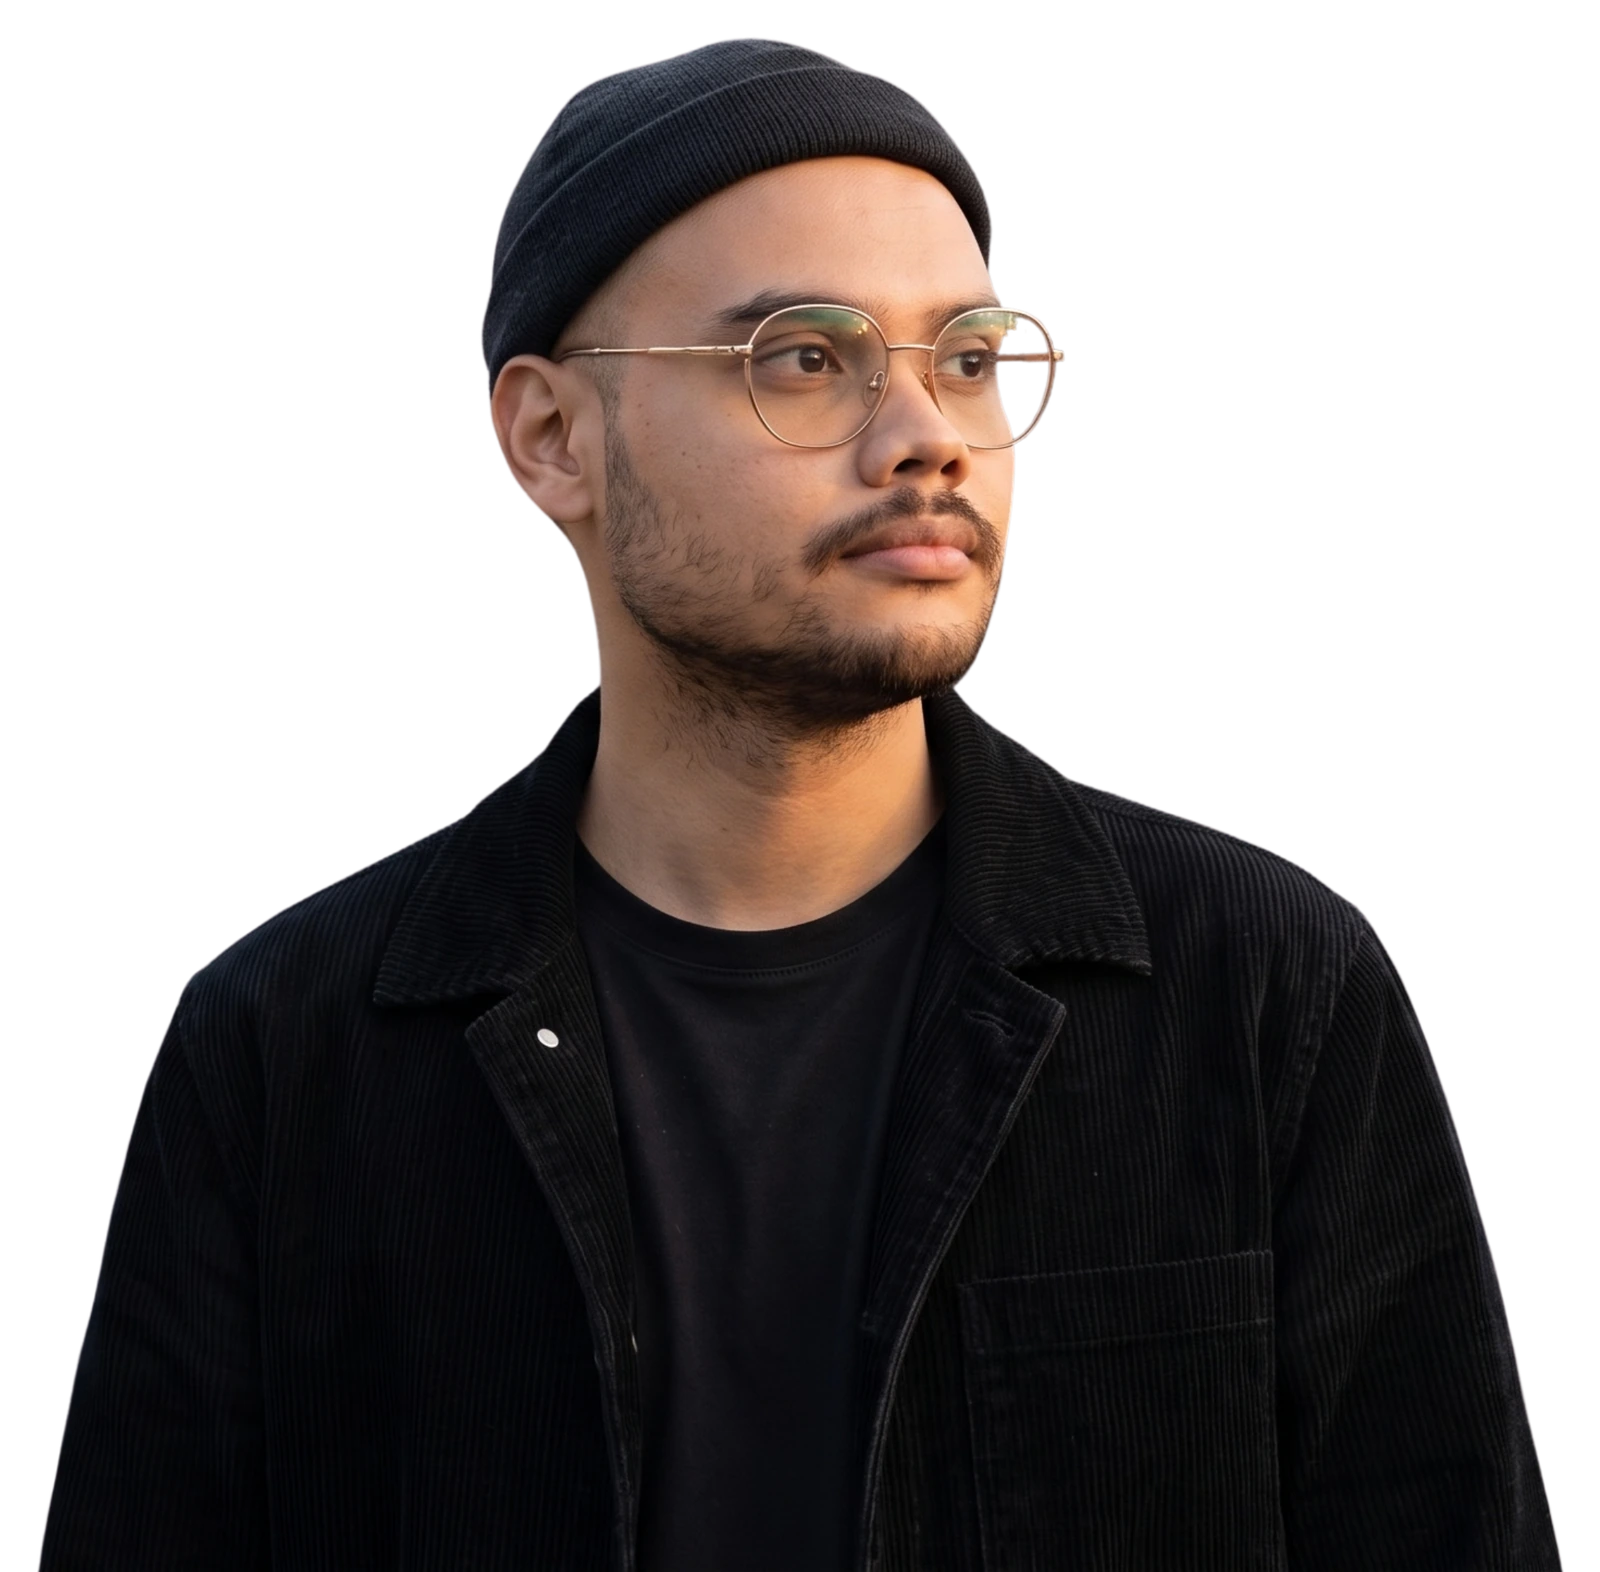
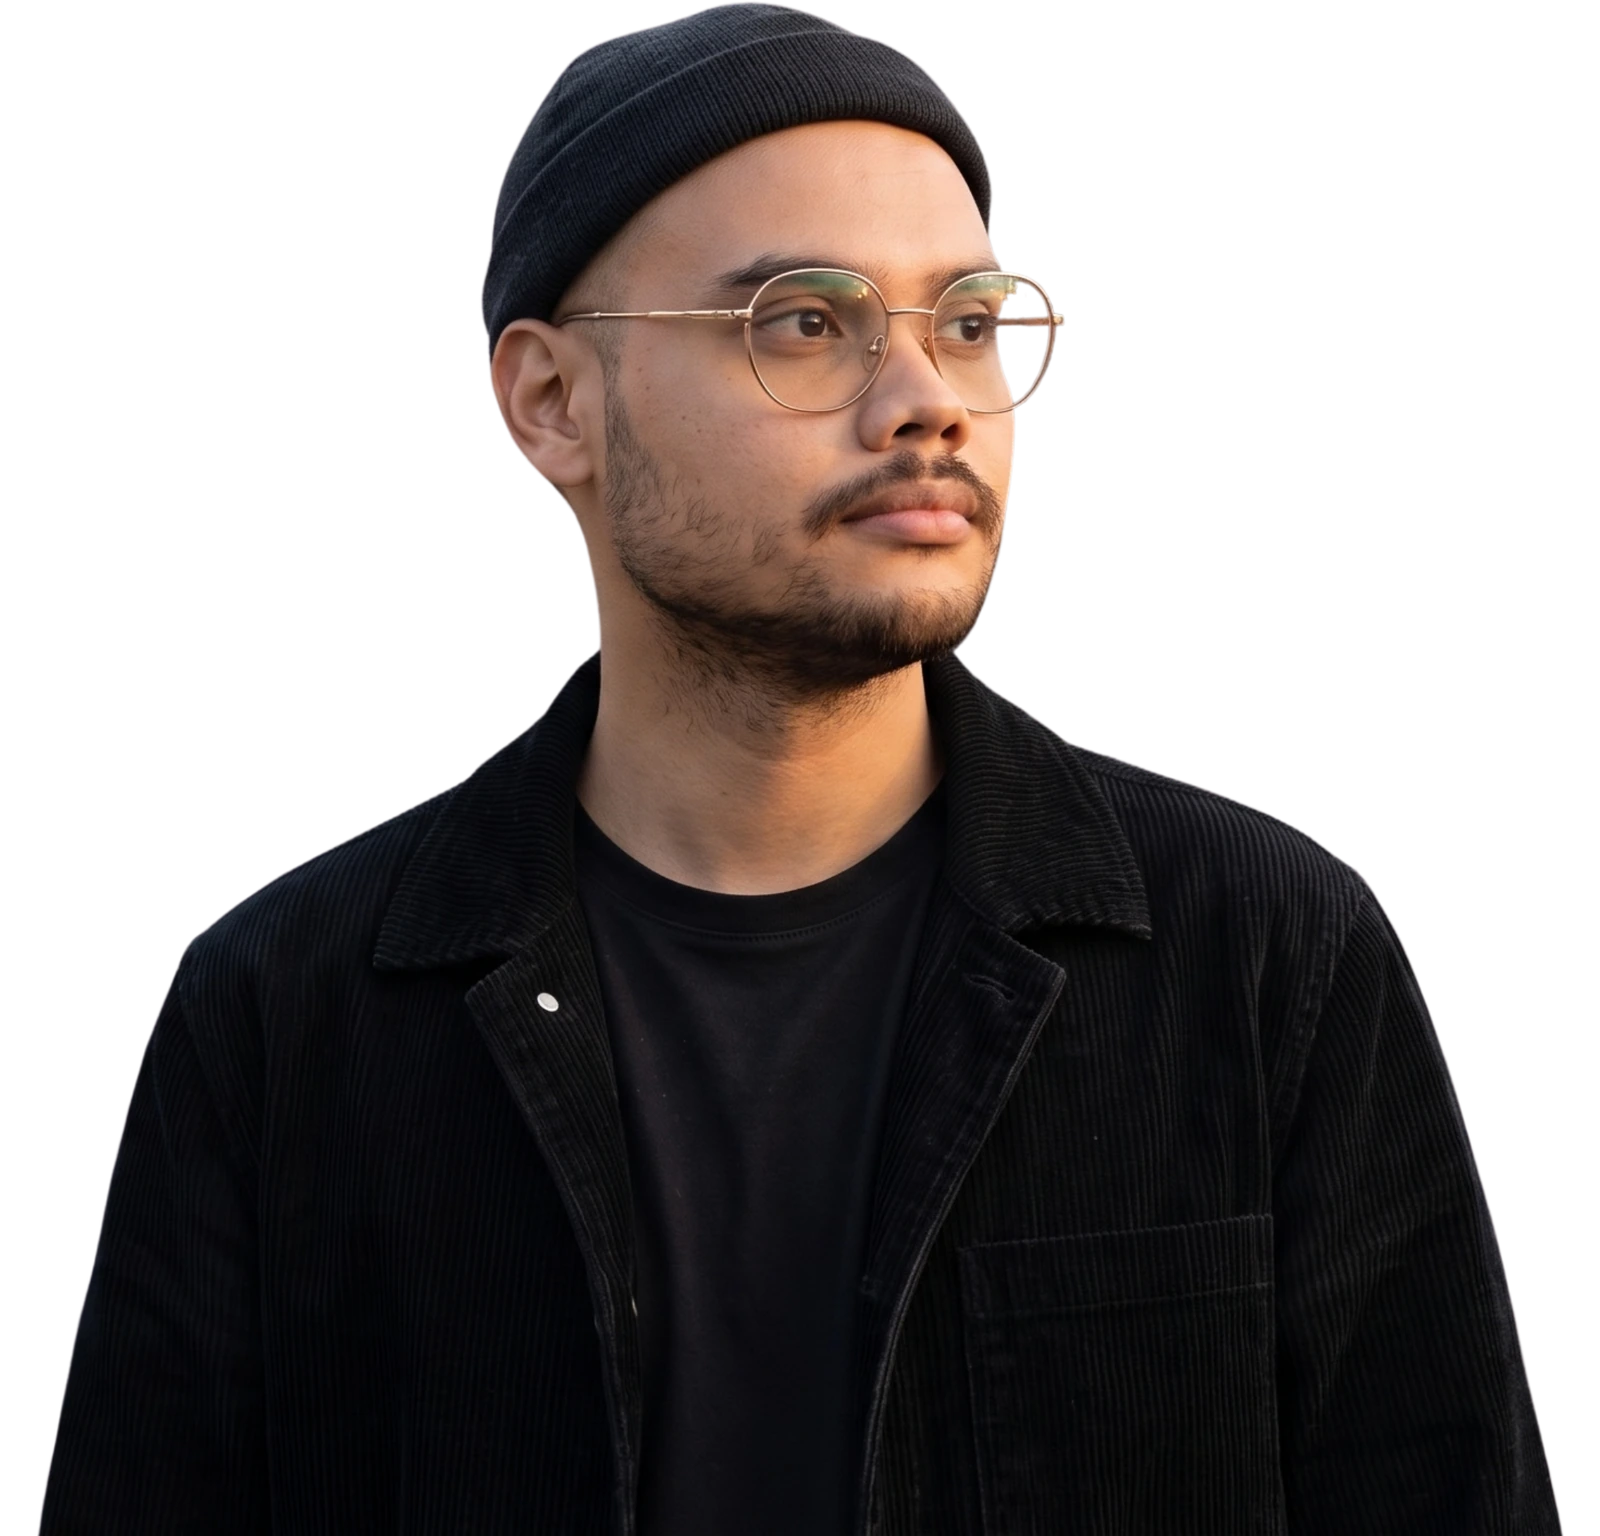
feat(hero): refine masthead and portrait stacking

diff --git a/src/features/home/Hero.tsx b/src/features/home/Hero.tsx
@@ -1,6 +1,7 @@
 import '@fontsource/bebas-neue/latin-400.css'
 
 import { ArrowRight, Download } from 'lucide-react'
+import type { CSSProperties } from 'react'
 
 import { Container } from '@/components/layout/Container'
 import { siteConfig } from '@/data/site'
@@ -8,33 +9,50 @@ import { siteConfig } from '@/data/site'
 /**
  * Masthead class — giant "PORTAFOLIO" that stays single-line at 1440 px.
  * Bebas Neue 400, clamp(5rem,17vw,17rem), uppercase, tight line-height
- * and tracking.  No scaleY transform.
+ * and tracking. The inner text is scaled vertically while this heading
+ * reserves the transformed height in layout.
  */
 const portfolioTitleClass =
   'whitespace-nowrap font-["Bebas_Neue"] text-[clamp(5rem,17vw,17rem)] font-normal uppercase leading-[0.85] tracking-[-0.01em] text-ink'
+
+const heroMetrics = {
+  '--header-h': '80px',
+  '--title-stretch': '1.5',
+  '--title-natural-h': 'calc(clamp(5rem, 17vw, 17rem) * 0.85)',
+  '--title-h': 'calc(var(--title-natural-h) * var(--title-stretch))',
+  '--photo-w': 'clamp(360px, 55vw, 560px)',
+  '--photo-h': 'calc(var(--photo-w) * 1536 / 1600)',
+  '--hero-natural-h':
+    'max(640px, calc(24px + var(--title-h) + var(--photo-h) - var(--overlap)))',
+  '--hero-extra':
+    'max(0px, calc(100svh - var(--header-h) - var(--hero-natural-h)))',
+  '--tablet-photo-w': 'clamp(360px, 51vw, 480px)',
+  '--tablet-photo-h': 'calc(var(--tablet-photo-w) * 1536 / 1600)',
+  '--overlap': 'clamp(40px, calc(var(--title-natural-h) * 0.25), 56px)',
+  '--mobile-photo-h': 'calc(min(90vw, 380px) * 1536 / 1600)',
+} as CSSProperties
 
 export function Hero() {
   return (
     <section
       id="inicio"
       aria-label="Inicio"
-      className="relative isolate overflow-hidden bg-background"
+      style={heroMetrics}
+      className="relative isolate mt-[var(--header-h)] overflow-hidden bg-background [@media(min-width:1024px)_and_(min-height:800px)_and_(orientation:landscape)]:pt-[min(var(--hero-extra),20vh)]"
     >
-      <Container className="relative flex flex-col pt-[104px] pb-10 sm:pb-12 lg:min-h-[100svh] lg:pb-0">
+      <Container className="relative grid grid-rows-[auto_minmax(max-content,1fr)] pt-6 min-h-[max(700px,calc(100svh_-_var(--header-h)))] sm:min-h-[calc(24px_+_var(--title-h)_+_var(--tablet-photo-h)_-_var(--overlap))] lg:min-h-[max(640px,calc(24px_+_var(--title-h)_+_var(--photo-h)_-_var(--overlap)))] [@media(max-height:500px)_and_(max-width:900px)]:min-h-[max(700px,calc(100svh_-_var(--header-h)))]">
         {/* Masthead — Bebas Neue 400, z-10 above circle (z-0) */}
         <h1
-          className={`${portfolioTitleClass} relative z-10 origin-left scale-x-[1.05] sm:scale-x-[1.25] lg:scale-x-[1.3]`}
+          className={`${portfolioTitleClass} h-[var(--title-h)] relative z-10 origin-left scale-x-[1.05] sm:scale-x-[1.25] lg:scale-x-[1.3]`}
         >
-          Portafolio
+          <span className="block origin-top [transform:scaleY(var(--title-stretch))]">
+            Portafolio
+          </span>
         </h1>
 
-        {/* Two-column grid: copy left, portrait right (stacks on mobile)
-            — portrait anchored to section bottom on desktop for full overlap
-            — circle backdrop now z-0 so H1 (z-10) renders above it */}
-        <div className="relative -mt-2 grid flex-1 items-end gap-6 sm:mt-0 lg:-mt-16 lg:grid-cols-[0.85fr_1.15fr] lg:gap-0">
-
-          {/* ── Copy column — left ─────────────────────────────────── */}
-          <div className="relative z-30 py-6 font-heading lg:self-start lg:py-0 lg:pt-14">
+        {/* Content row — grid intrinsic sizing lets the hero grow if copy needs space. */}
+        <div className="relative z-30 grid min-h-0 grid-cols-1 items-center pb-[calc(var(--mobile-photo-h)_+_24px)] sm:grid-cols-[42%_58%] sm:pb-0 md:grid-cols-[50%_50%] lg:grid-cols-[40%_60%] [@media(max-height:500px)_and_(max-width:900px)]:grid-cols-1 [@media(max-height:500px)_and_(max-width:900px)]:pb-[calc(var(--mobile-photo-h)_+_24px)]">
+          <div className="relative z-30 min-w-0 py-6 font-heading">
             <p className="text-xs font-medium uppercase tracking-[0.14em] text-muted">
               Hola, soy
             </p>
@@ -69,39 +87,26 @@ export function Hero() {
               )}
             </div>
           </div>
-
-          {/* ── Portrait column — right ────────────────────────────── */}
-          {/*
-            Desktop: portrait anchored to section bottom, scaled to viewport
-            height so it overlaps the masthead.  Mobile: small top-right
-            cutout (~6 rem at 390 px, ~12 rem at 768 px) overlapping
-            the final "LIO" letters without cropping arms.
-          */}
-          <figure className="absolute -top-4 right-0 h-24 w-24 sm:-top-20 sm:right-[5.5rem] sm:h-40 sm:w-40 md:right-32 md:h-48 md:w-48 lg:relative lg:top-auto lg:right-auto lg:h-full lg:w-full lg:flex lg:items-end lg:justify-end">
-            {/* Terracotta circle backdrop — z-0, behind H1 and photo */}
-            <span
-              aria-hidden="true"
-              className="absolute bottom-[4%] left-1/2 z-0 aspect-square w-[82%] max-w-[32rem] -translate-x-1/2 rounded-full bg-accent/90 lg:max-w-[40rem]"
-            />
-
-            {/*
-              Mobile: absolute top-right cutout (6rem at 390px; 12rem at 768px)
-              overlapping the masthead. Desktop: large bottom-aligned portrait.
-              Intrinsic width/height prevent CLS; eager loading ensures
-              first-fold delivery.
-            */}
-            <img
-              src="/assets/hero/brayan-leon.webp"
-              alt="Brayan León, desarrollador Backend y Fullstack"
-              width={1600}
-              height={1572}
-              loading="eager"
-              fetchPriority="high"
-              decoding="async"
-              className="relative z-20 aspect-[1600/1572] h-full w-full object-contain lg:mx-0 lg:h-auto lg:w-full lg:max-w-full lg:max-h-[min(48rem,calc(100svh_-_16rem))] lg:origin-bottom-right lg:scale-[1.05] [@media(min-width:1024px)_and_(max-height:800px)]:origin-bottom-right [@media(min-width:1024px)_and_(max-height:800px)]:scale-[1.14] [@media(min-width:1024px)_and_(max-height:800px)]:translate-x-10"
-            />
-          </figure>
+          <div className="hidden sm:block" aria-hidden="true" />
         </div>
+
+        {/* Photo is always bottom-anchored and stays at its natural ratio. */}
+        <figure className="absolute z-20 bottom-0 left-1/2 aspect-[1600/1536] w-[90vw] max-w-[380px] -translate-x-1/2 sm:left-auto sm:right-0 sm:w-[var(--tablet-photo-w)] sm:max-w-none sm:translate-x-0 md:-right-1 lg:w-[var(--photo-w)] lg:right-8 xl:right-16 [@media(max-height:500px)_and_(max-width:900px)]:left-1/2 [@media(max-height:500px)_and_(max-width:900px)]:right-auto [@media(max-height:500px)_and_(max-width:900px)]:w-[90vw] [@media(max-height:500px)_and_(max-width:900px)]:max-w-[380px] [@media(max-height:500px)_and_(max-width:900px)]:-translate-x-1/2">
+          <span
+            aria-hidden="true"
+            className="absolute bottom-0 left-1/2 z-0 aspect-square w-[80vw] max-w-[320px] -translate-x-1/2 rounded-full bg-accent/90 sm:w-[82%] sm:max-w-[40rem] [@media(max-height:500px)_and_(max-width:900px)]:w-[80vw] [@media(max-height:500px)_and_(max-width:900px)]:max-w-[320px]"
+          />
+          <img
+            src="/assets/hero/brayan-leon.webp"
+            alt="Brayan León, desarrollador Backend y Fullstack"
+            width={1600}
+            height={1536}
+            loading="eager"
+            fetchPriority="high"
+            decoding="async"
+            className="relative z-20 block h-full w-full object-contain lg:origin-bottom-right lg:scale-[1.05]"
+          />
+        </figure>
       </Container>
     </section>
   )
